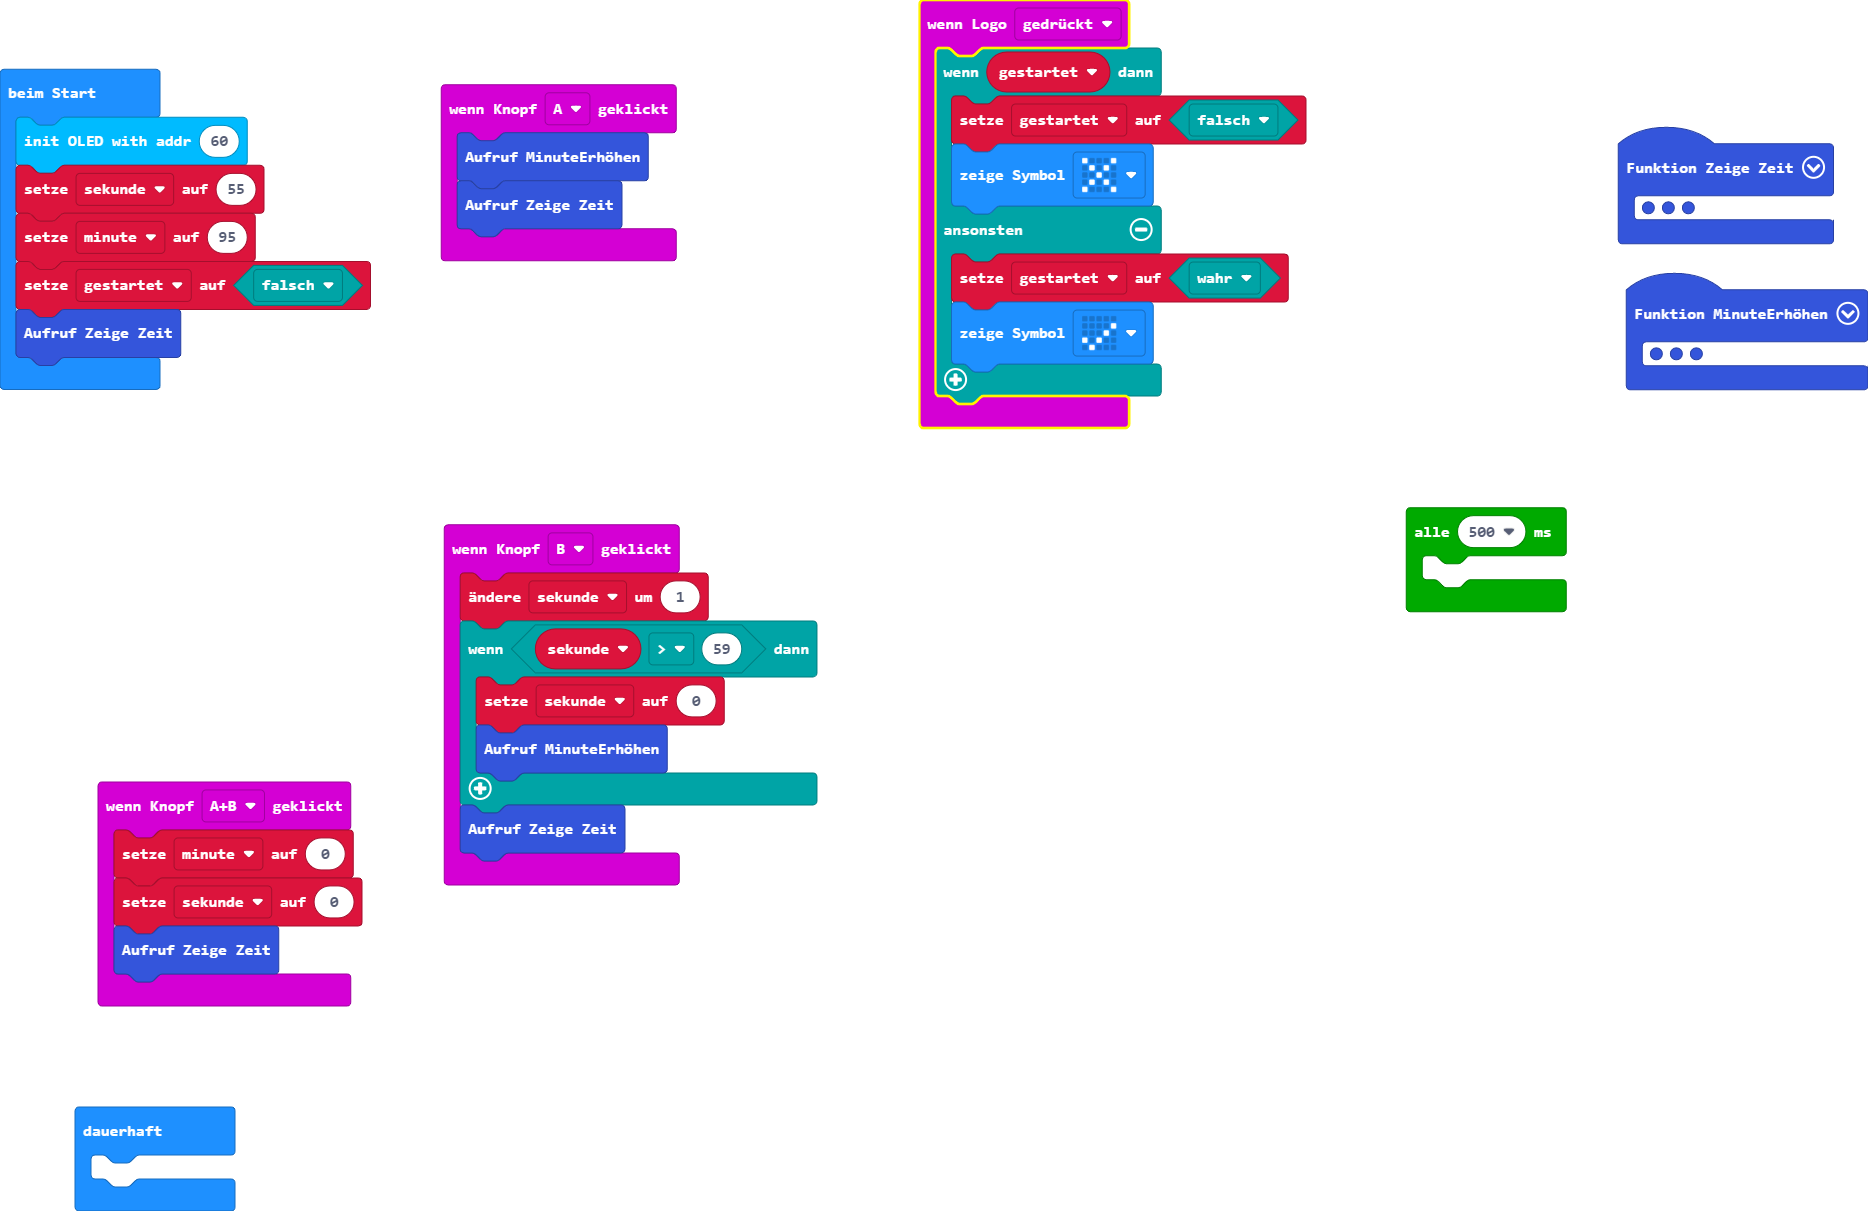
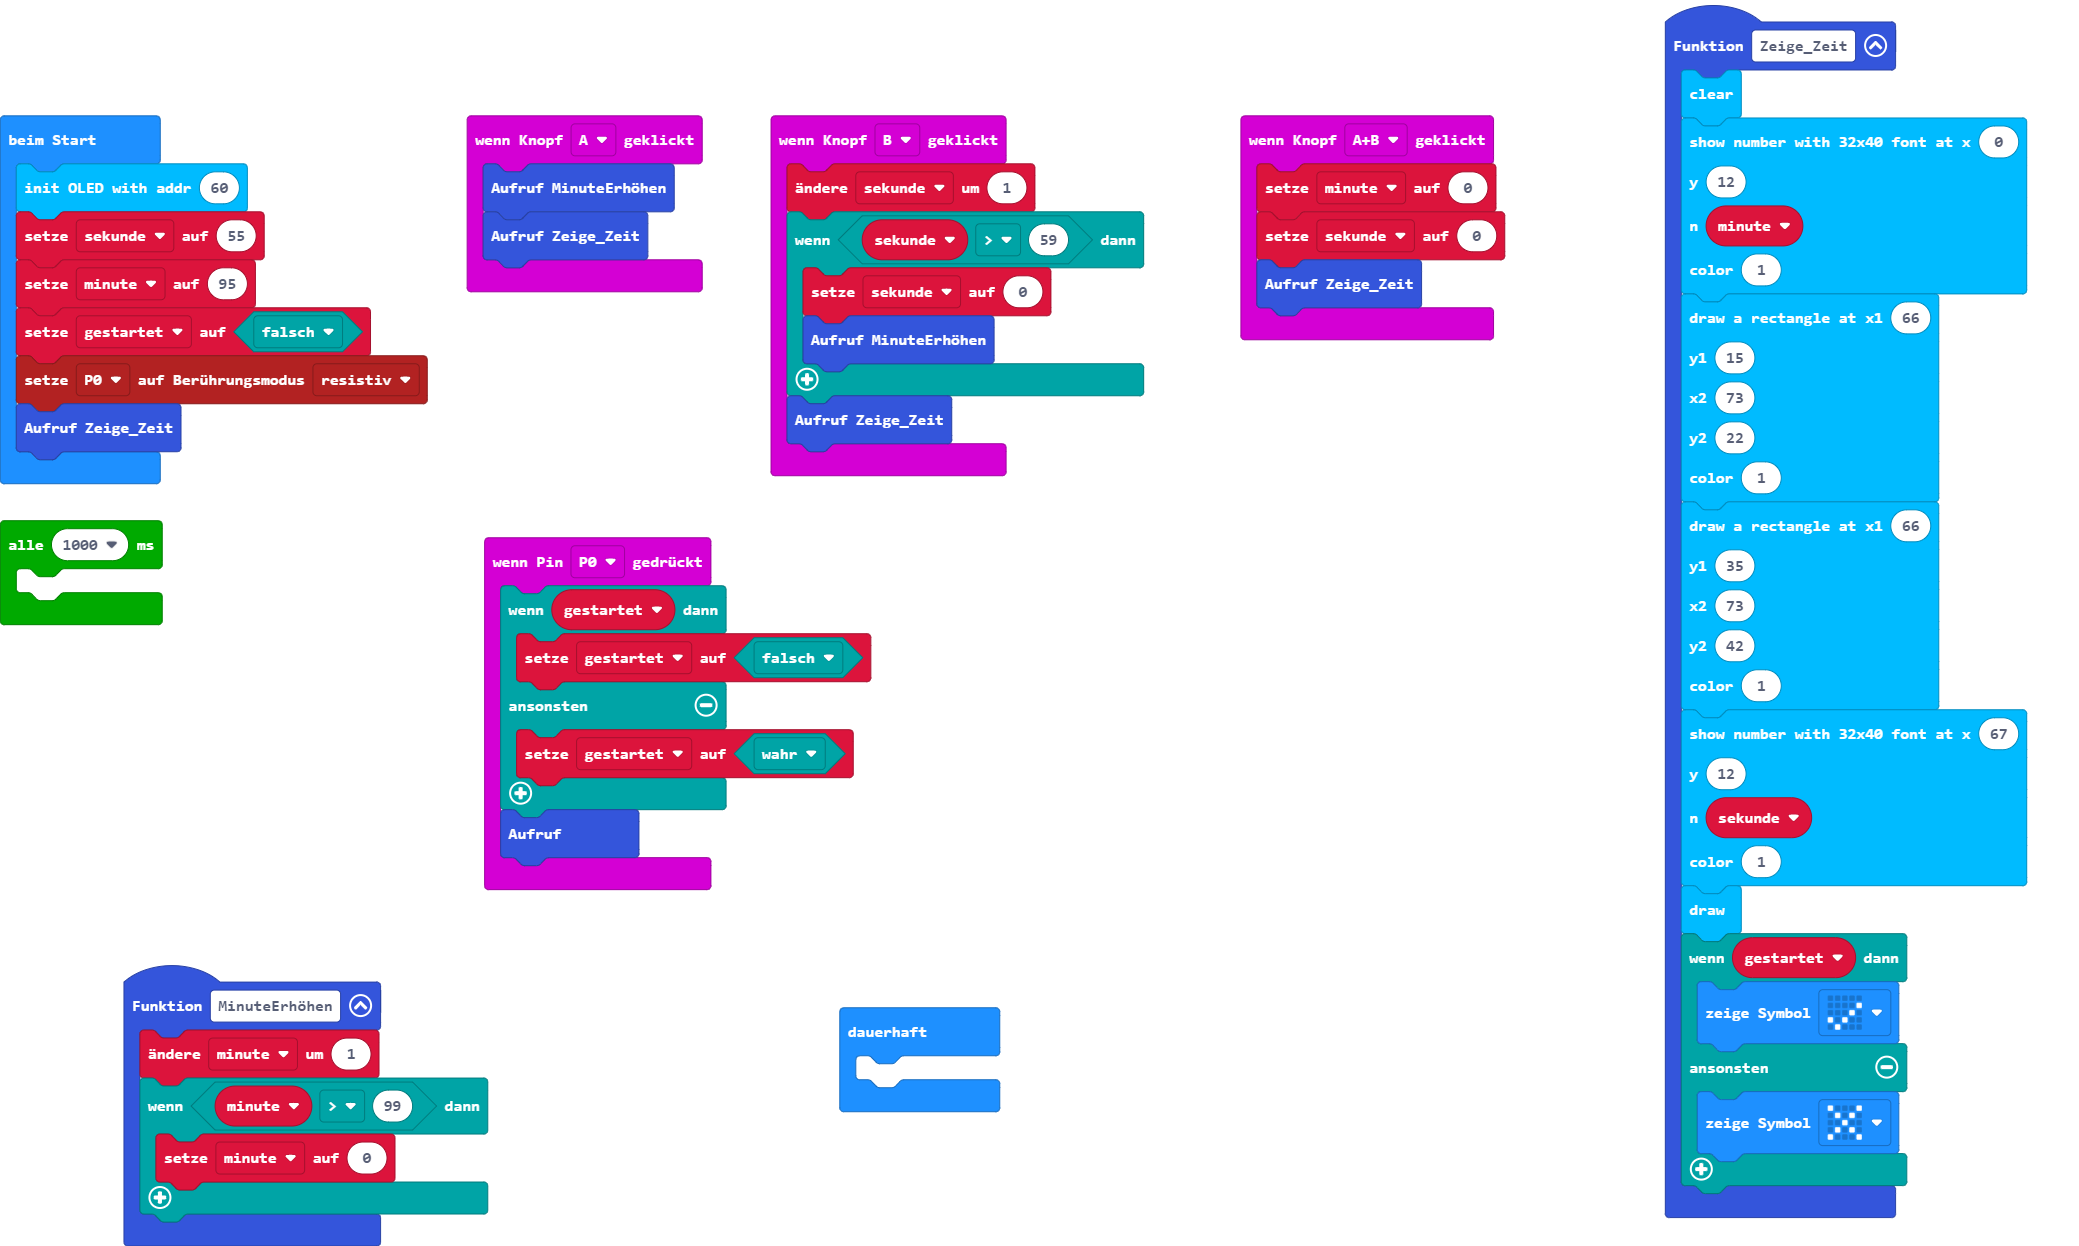
Aktualisiere pxt.json, main.blocks, main.ts

diff --git a/main.ts b/main.ts
@@ -1,20 +1,19 @@
-input.onLogoEvent(TouchButtonEvent.Pressed, function () {
+input.onPinPressed(TouchPin.P0, function () {
     if (gestartet) {
         gestartet = false
-        basic.showIcon(IconNames.No)
     } else {
         gestartet = true
-        basic.showIcon(IconNames.Yes)
     }
+    Anzeige()
 })
 input.onButtonPressed(Button.A, function () {
     MinuteErhöhen()
-    Zeige_Zeit()
+    Anzeige()
 })
 input.onButtonPressed(Button.AB, function () {
     minute = 0
     sekunde = 0
-    Zeige_Zeit()
+    Anzeige()
 })
 input.onButtonPressed(Button.B, function () {
     sekunde += 1
@@ -22,9 +21,15 @@ input.onButtonPressed(Button.B, function () {
         sekunde = 0
         MinuteErhöhen()
     }
-    Zeige_Zeit()
+    Anzeige()
 })
-function Zeige_Zeit () {
+function MinuteErhöhen () {
+    minute += 1
+    if (minute > 99) {
+        minute = 0
+    }
+}
+function Anzeige () {
     OLED_I2C.clear()
     OLED_I2C.number_32x40(
     0,
@@ -53,11 +58,10 @@ function Zeige_Zeit () {
     1
     )
     OLED_I2C.draw()
-}
-function MinuteErhöhen () {
-    minute += 1
-    if (minute > 99) {
-        minute = 0
+    if (gestartet) {
+        basic.showIcon(IconNames.Yes)
+    } else {
+        basic.showIcon(IconNames.No)
     }
 }
 let gestartet = false
@@ -67,7 +71,8 @@ OLED_I2C.init(60)
 sekunde = 55
 minute = 95
 gestartet = false
-Zeige_Zeit()
+pins.touchSetMode(TouchTarget.P0, TouchTargetMode.Resistive)
+Anzeige()
 loops.everyInterval(1000, function () {
 	
 })
